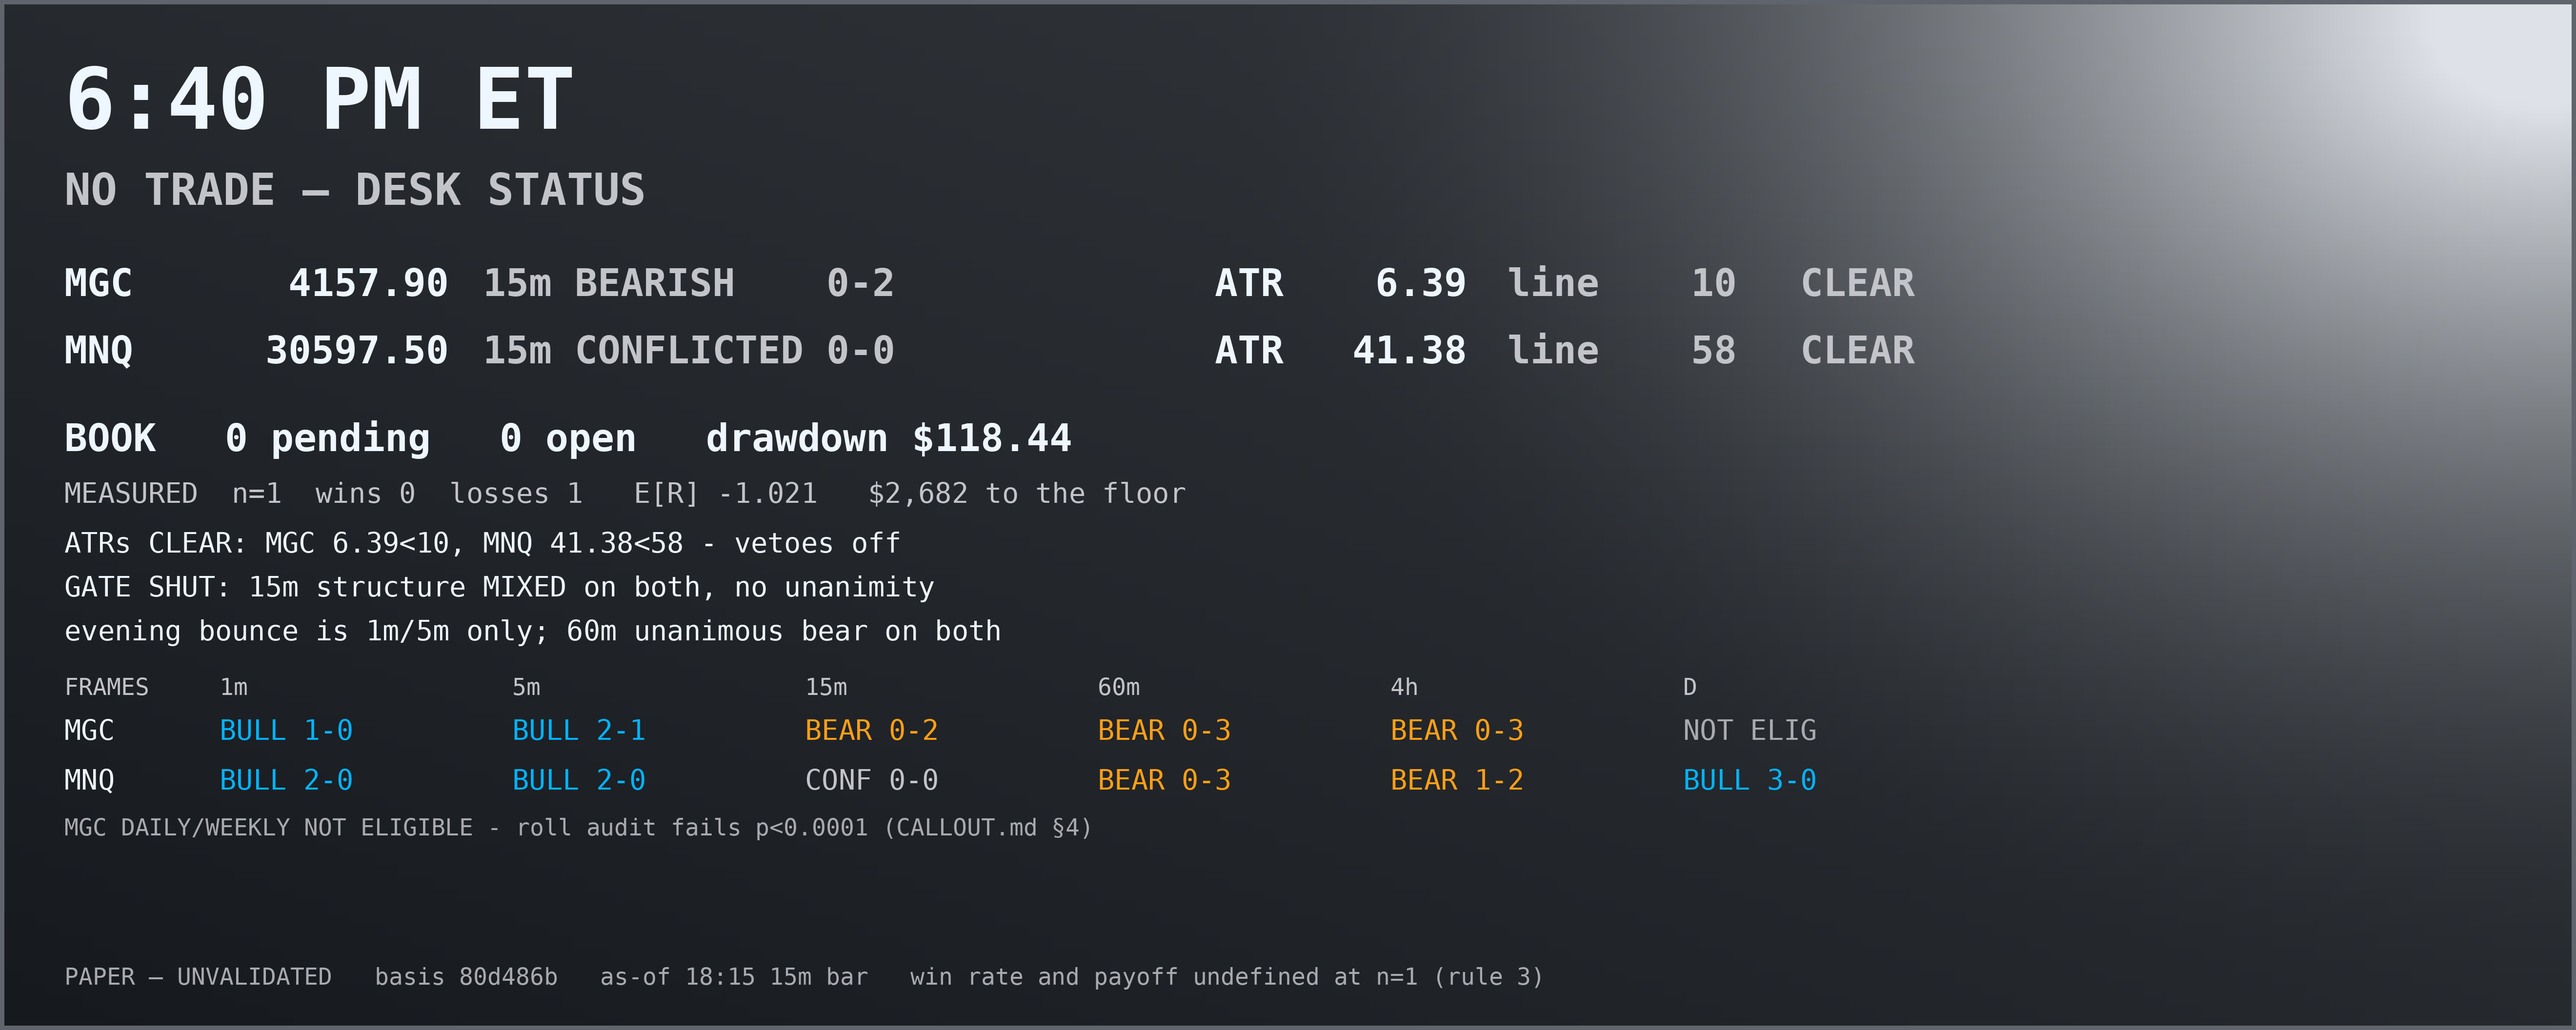
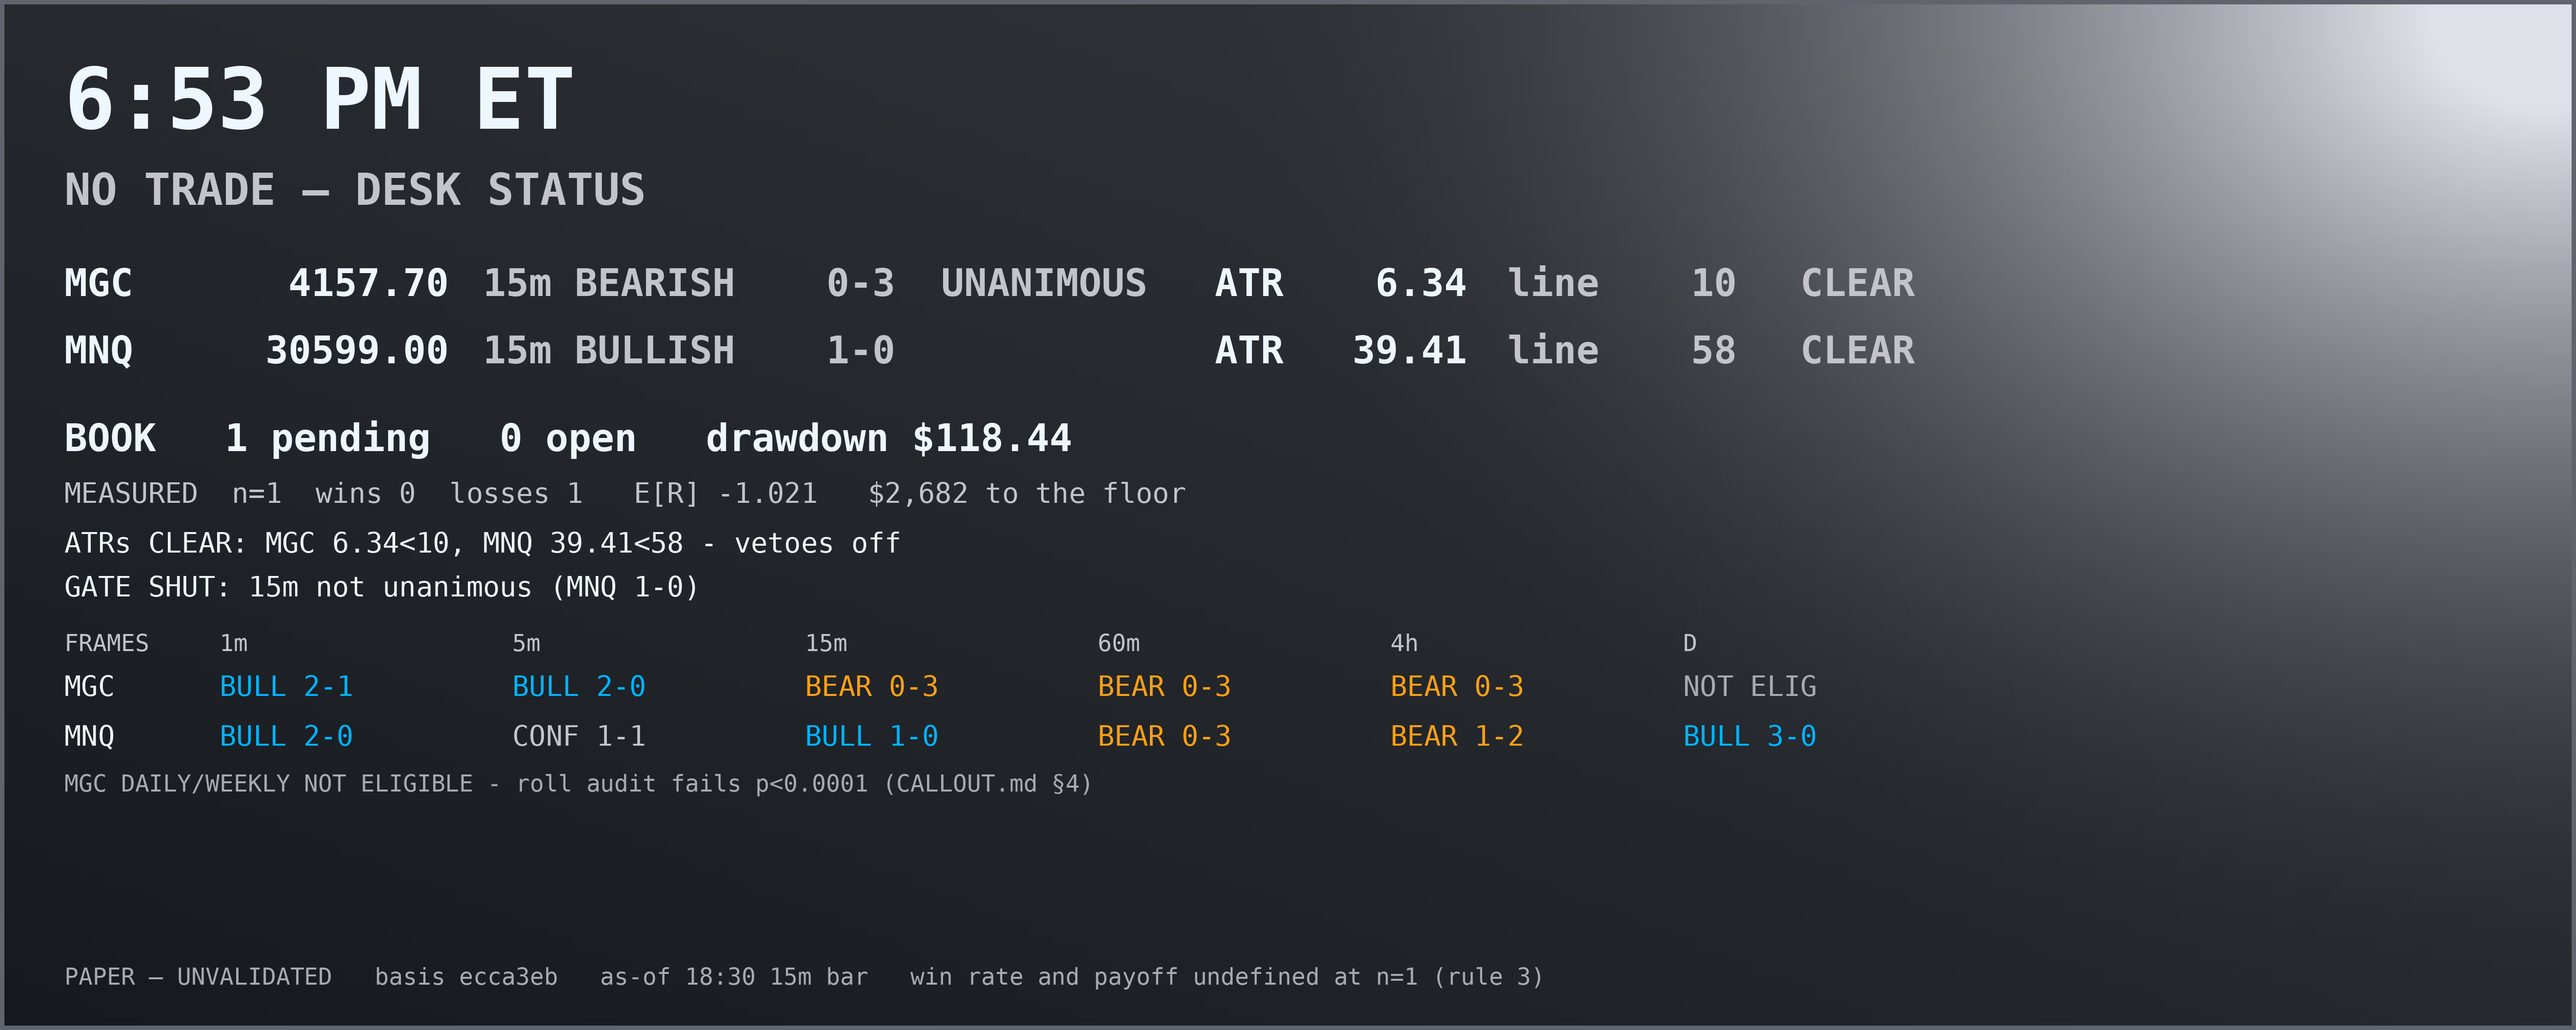
CALL desk: 18:52 hourly - CALL-0007 pending 1.30 from its limit, MGC reversal held 34 checks and 60m at 3% of range; status_card.py gains --auto so the binding-reason ATRs are derived from atr14() instead of hand-typed
Claude-Session: https://claude.ai/code/session_01EE6PFk7fGa2tM4KP6dpfWD

diff --git a/workspace/paper/CALL/status_card.py b/workspace/paper/CALL/status_card.py
@@ -42,6 +42,51 @@ def atr14(sym: str) -> float:
     return sum(trs[-14:]) / 14.0
 
 
+def auto_reason() -> str:
+    """Compose the binding-reason lines FROM MEASURED STATE, so no number is ever hand-typed.
+
+    Installed 2026-09-28 at the owner's suggestion: *"would it be more beneifical for you to have
+    a python script that will generate it while you provide its parameters."* For PLAN cards the
+    answer was already yes -- `card_png.py <call_id>` reads the plan from pending.jsonl and takes
+    no numbers from me at all. The gap was HERE: the status card took its three reason lines as a
+    command-line string, so every check I retyped the two ATRs by hand into the one artefact the
+    owner actually reads. One wrong digit and the card states a veto level that was never measured.
+
+    The reasons are now DERIVED, in priority order, and the ATRs come from atr14() -- the same
+    function that draws them on the card, so the text and the panel can never disagree.
+    """
+    import datetime, zoneinfo
+    now = datetime.datetime.now(zoneinfo.ZoneInfo("America/New_York"))
+    lines = []
+
+    stood = []
+    clear = []
+    for sym in ("MGC", "MNQ"):
+        a, line = atr14(sym), SPEC[sym]["line"]
+        (stood if a > line else clear).append(f"{sym} {a:.2f}{'>' if a > line else '<'}{line:g}")
+    if stood:
+        lines.append("VOL STAND-DOWN: " + ", ".join(stood))
+        if clear:
+            lines.append("clear: " + ", ".join(clear))
+    else:
+        lines.append("ATRs CLEAR: " + ", ".join(clear) + " - vetoes off")
+
+    if datetime.time(15, 0) <= now.time() < datetime.time(16, 0):
+        lines.append("RULE 5: no intraday entry 15:00-16:00 (z -4.43)")
+
+    gate = []
+    for sym in ("MGC", "MNQ"):
+        bi = bias(load(sym, 15)[-40:])
+        if not bi["unanimous"]:
+            gate.append(f"{sym} {bi['bull']}-{bi['bear']}")
+    if gate:
+        lines.append("GATE SHUT: 15m not unanimous (" + ", ".join(gate) + ")")
+    else:
+        lines.append("15m unanimous on both - gate open")
+
+    return "\n".join(lines[:3])
+
+
 def gather() -> dict:
     st = json.loads((HERE / "state.json").read_text())
     plans = [json.loads(l) for l in (HERE / "pending.jsonl").read_text().splitlines() if l.strip()]
@@ -227,7 +272,8 @@ def render(out: pathlib.Path, reason: str) -> pathlib.Path:
 
 def main() -> int:
     C.SCALE = float(sys.argv[1]) if len(sys.argv) > 1 else 3.0
-    reason = sys.argv[2] if len(sys.argv) > 2 else "No plan: both symbols stood down on volatility."
+    arg = sys.argv[2] if len(sys.argv) > 2 else "--auto"
+    reason = auto_reason() if arg == "--auto" else arg
     out = render(HERE / "card_STATUS.png", reason)
     w, h = Image.open(out).size
     print(f"{out.name}  {w}x{h}  ratio {w/h:.2f}:1  ({out.stat().st_size//1024} KB)")

diff --git a/workspace/paper/CALL/NOTES.md b/workspace/paper/CALL/NOTES.md
@@ -8105,3 +8105,60 @@ added, and the desk's entry logic is unchanged.
 pivot level (a retest) behaves differently from one in open space. That is a structure question,
 not a volume one, and appending it to this run would widen the search from 24 cells to 48 without
 pre-registration. It should be its own test with its own placebo if the owner wants it.
+
+---
+
+# N222 — 18:52 hourly: CALL-0007 pending 1.30 from its limit, and the status card stopped taking hand-typed numbers
+
+`basis ecca3eb`. Cadence verified: all three UTC jobs alive (`5b6f90c7`, `697d7750`, `13cbeeca`).
+Clocks checked both ways — UTC 22:52, ET 18:52, inside the window.
+
+## Book
+
+**CALL-0007 PENDING**, 0 open. MGC SHORT, LIMIT SELL 4159.00, stop 4163.40 (4.40 pts = 0.69x ATR),
+TP1 4152.40, 1 contract, $44 risk = 18.3% of permitted. Registered 18:47 on the session's first
+MGC reversal call. Price 4157.70 — **1.30 points below the trigger**, in from 3.90 at registration.
+`thesis.py` reports "no bars since creation", which is correct and not a failure: the 15m frame has
+not published a bar since `18:30`.
+
+Equity **$50,038.12**, peak $50,156.56, drawdown **$118.44**. Distance to the $2,800 absorbing
+state: **$2,681.56**.
+
+**Measured record, CALL-0002 EXCLUDED per N155:** n=1, 0 wins, 1 loss, **win rate 0% with payoff
+0.00** — there is no win to size a payoff against, and quoting either number alone would breach
+rule 3 in whichever direction flattered me. Expectancy −1.021R. 0 ambiguous bars.
+
+## The read
+
+MGC 15m is unanimous BEAR 0-3 and the reversal call has held **34 checks**, agreeing frames
+[60m, 240m]. 60m is brutal: close 4148.70 against EMA20 4192.94 falling, lower highs
+4203.80→4181.00, lower lows 4172.60→4143.00, location **3.0% of [4143.00, 4336.00]** — the bottom
+of a 30-bar range. Meanwhile 1m is 2-1 bull and 5m 2-0 bull, which is the bounce the limit sits in.
+
+MNQ 60m has now also gone unanimous BEAR 0-3 (close 30556.75 < EMA20 30632.85 falling, location
+33.6% of [30356.50, 30952.50]) while its DAILY stays unanimous BULL 3-0. Its 15m is 1-0 bull on one
+check of two. **That is the fifth flip attempt on MNQ today**; the previous four all died before a
+second consecutive check, three of them on revisions of an unclosed bar.
+
+Both ATRs clear: MGC 6.34 vs 10, MNQ 39.41 vs 58.
+
+## The card change, and why the plan card needed none
+
+The owner asked whether a parameterised script would be smoother than whatever I was doing. For
+plan cards it already was: `card_png.py <call_id> --scale 3` reads the plan from `pending.jsonl`
+and takes no numbers from me. That is deliberate — a card that recomputed the numbers
+independently could drift from the plan it depicts.
+
+**The status card was the real gap.** It took its three reason lines as a command-line string, so
+every quiet check I retyped both ATRs by hand. Roughly thirty checks today did that. One wrong
+digit puts a veto level that was never measured onto the one artefact he actually reads, and
+nothing downstream would catch it.
+
+Fixed: `status_card.py 3 --auto` now derives the lines in `auto_reason()` — stand-down with both
+ATRs, rule 5 when the clock is inside 15:00-16:00, then the 15m gate with each non-unanimous tally.
+**The ATRs come from `atr14()`, the same function that draws the ATR panel**, so the headline and
+the panel cannot disagree. A literal string is still accepted for a one-off, but `--auto` is the
+default.
+
+The owner found a transcription hazard I had been walking past all day. Worth recording as that,
+not as a styling tweak.

diff --git a/workspace/paper/CALL/CHECK_PROCEDURE.md b/workspace/paper/CALL/CHECK_PROCEDURE.md
@@ -989,3 +989,32 @@ silent outage costs the open.
 **And every in-window check starts by confirming the jobs exist.** If `CronList` is empty during
 the window, the cadence has already stopped; re-create it before doing anything else, and report
 the gap rather than letting the next check look normal.
+
+### Card commands take PARAMETERS, never hand-typed numbers
+
+Owner, 2026-09-28 18:52: *"when rendering the card, would it be more beneifical for you to have a
+python script that will generate it while you provide its parameters to make it smoother for you?"*
+
+For **plan cards** that was already the design and needs nothing:
+
+    python3 card_png.py <call_id> --scale 3
+
+It reads the plan out of `pending.jsonl` and takes no numbers from me at all. Entry, stop, targets,
+R, contracts, dollar risk and every basis string are rendered from the registered record, so the
+card cannot disagree with the plan. That is also why it is safe: a card that restated the numbers
+independently could drift from the plan it depicts.
+
+**The gap was the status card, and it is now closed:**
+
+    python3 status_card.py 3 --auto
+
+`--auto` composes the three binding-reason lines from measured state via `auto_reason()`, in
+priority order: the volatility stand-down with both ATRs, rule 5 if the clock is inside
+15:00-16:00, then the 15m gate with each non-unanimous tally. **The ATRs come from `atr14()` — the
+same function that draws the ATR panel — so the headline text and the panel can no longer
+disagree.**
+
+Before this, every check retyped both ATRs by hand into a command-line string. Around thirty checks
+today did that. One wrong digit would have put a veto level on the one artefact the owner reads
+that was never measured, and nothing in the pipeline would have caught it. Passing a literal string
+is still permitted for a genuinely one-off reason, but `--auto` is the default and the normal case.
